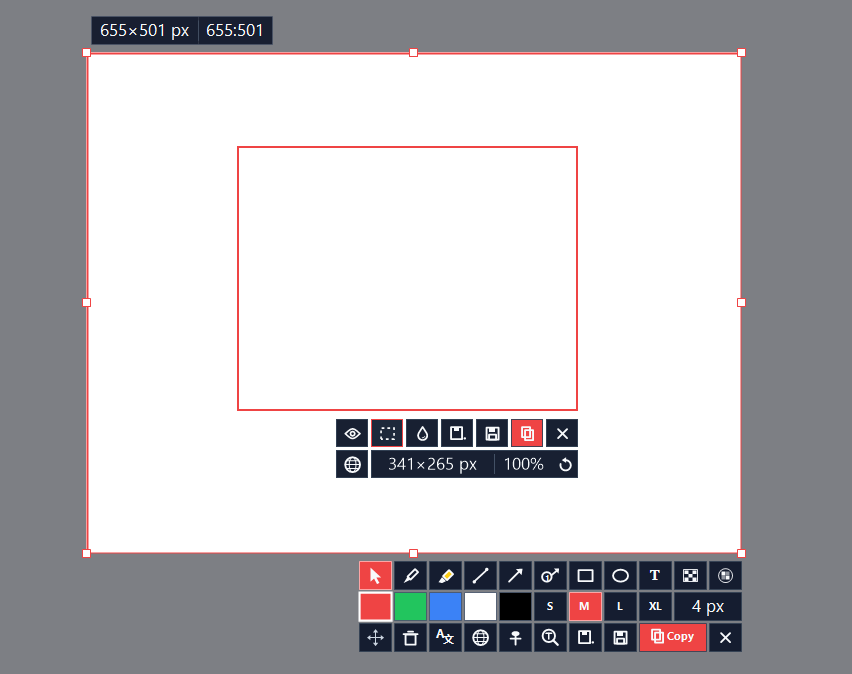
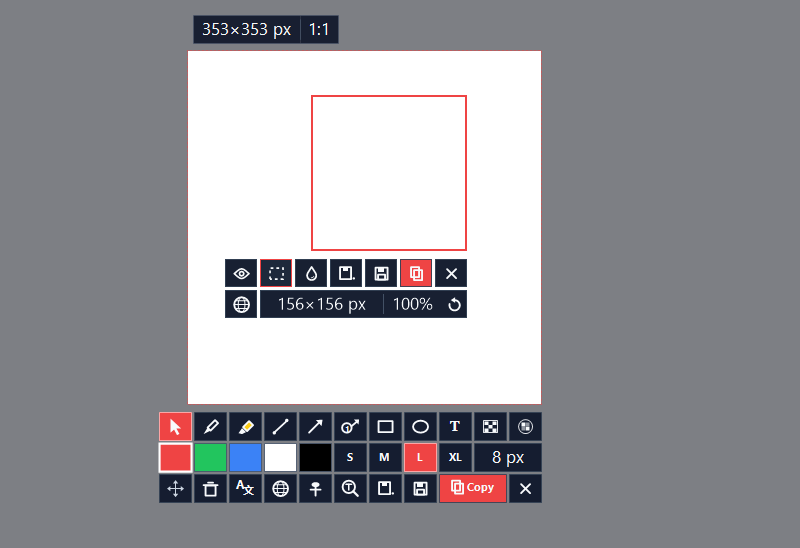
Overlay: a frame outside the capture, and an edge you can grab anywhere
The dashed selection frame sat on the border of the area it marked, and because
GDI+ paints a DrawRectangle(x, y, w, h) outline along x .. x + w while the code
passed the capture width, the left and top edges landed on the first captured row
and column. The outermost pixels of a save were the ones hidden under the dashes.
The frame now starts a pixel up and left with the width a pixel larger, so every
edge is beyond the last captured pixel. Ellipses grow the same way, and a
deformed quad pushes each corner a pixel away from its centre. The crop, the W×H
pill and the masks are untouched: only where the line is painted moved.

Resizing used to need the invisible midpoint of a side, which was a guess now that
the points are not drawn. HitTestSelectionHandles measures the distance to the
real edge segment instead, so the whole side resizes and the resize arrow follows
it. Corners are still tested first, and the band belongs to the Select tool so a
drawing tool can still draw up to the frame. An ellipse keeps its eight points:
its handles sit on the bounding box, away from the shape, so a hidden point there
is a detached one rather than an invisible affordance.

The aim crosshair and the frame now take their width, colour and dash from
ConfigureGuidePen, so the two cannot drift apart. The README's editor screenshot
is replaced with one showing the current editor.

diff --git a/Overlay.cpp b/Overlay.cpp
@@ -2851,15 +2851,35 @@ DragMode PepperSnapDaemon::HitTestSelectionHandles(int mx, int my) const {
         return std::abs(mx - p.x) <= r && std::abs(my - p.y) <= r;
     };
 
-    // Prioritize corner handles first, then edge midpoint handles
+    // Corners first, so a press in the overlap band at a corner still pulls that corner.
     if (nearPt(handles[0])) return DragMode::ResizeTL;
     if (nearPt(handles[2])) return DragMode::ResizeTR;
     if (nearPt(handles[4])) return DragMode::ResizeBR;
     if (nearPt(handles[6])) return DragMode::ResizeBL;
-    if (nearPt(handles[1])) return DragMode::ResizeT;
-    if (nearPt(handles[3])) return DragMode::ResizeR;
-    if (nearPt(handles[5])) return DragMode::ResizeB;
-    if (nearPt(handles[7])) return DragMode::ResizeL;
+
+    // The band belongs to the select tool. A drawing tool keeps the whole area drawable right
+    // up to the frame, and Ctrl - the temporary select tool - brings the band back with it.
+    if (GetEffectiveTool() != OverlayTool::SelectMove) return DragMode::None;
+
+    // A side is grabbable along its whole length, not only around its midpoint. The points
+    // are not drawn (except on an ellipse), so which pixel was "the middle" was a guess; the
+    // distance to the edge itself is not. Deformed quads are covered too, because this is the
+    // distance to the real segment rather than to an axis-aligned band.
+    POINT q[4];
+    GetSelectionQuadPoints(q);
+    auto nearEdge = [&](POINT a, POINT b) {
+        double abx = (double)(b.x - a.x), aby = (double)(b.y - a.y);
+        double apx = (double)(mx - a.x), apy = (double)(my - a.y);
+        double len2 = abx * abx + aby * aby;
+        double t = (len2 > 0.0) ? ((apx * abx + apy * aby) / len2) : 0.0;
+        t = std::max(0.0, std::min(1.0, t));
+        double dx = apx - t * abx, dy = apy - t * aby;
+        return std::sqrt(dx * dx + dy * dy) <= (double)r;
+    };
+    if (nearEdge(q[0], q[1])) return DragMode::ResizeT;
+    if (nearEdge(q[1], q[2])) return DragMode::ResizeR;
+    if (nearEdge(q[2], q[3])) return DragMode::ResizeB;
+    if (nearEdge(q[3], q[0])) return DragMode::ResizeL;
     return DragMode::None;
 }
 
@@ -3186,6 +3206,16 @@ void PepperSnapDaemon::ActionSaveAsAndClose() {
 // Overlay Window Rendering & Procedure (With Live Pixelation & Live Text Box)
 // ----------------------------------------------------------------------------
 
+// The aim crosshair and the selected-area frame are the same guide at two stages of one
+// gesture: a 1 px pen, 3 px of dash and a 1 px gap, the same red at 150 alpha (GDI+ measures
+// DashStyleDash as 3-1 on a width-1 pen). Both take that look from here, so they cannot drift
+// apart and a change to one is a change to the other.
+static void ConfigureGuidePen(Pen& pen) {
+    pen.SetWidth(1.0f);
+    pen.SetColor(Color(150, 239, 68, 68));
+    pen.SetDashStyle(DashStyleDash);
+}
+
 static void RenderOverlayWindow(HWND, HDC hdc) {
     int W = g_Daemon.vScreenW;
     int H = g_Daemon.vScreenH;
@@ -3432,66 +3462,74 @@ static void RenderOverlayWindow(HWND, HDC hdc) {
                 PepperSnapDaemon::DrawVectorAnnotation(g, g_Daemon.editingTextAnn, 0, 0, true, true);
             }
 
-            // Selection Frame + 8 Resize Handles (Supports circles/ellipses, rectangles, irregular quadrilaterals, and snapped triangles)
-            Pen selBorder(Color(255, 239, 68, 68), 1.8f);
+            // Selection frame. The whole outline is drawn one pixel outside the capture, because
+            // a capture is the pixels inside the area: GDI+ paints a DrawRectangle(x, y, w, h)
+            // border along x .. x + w, so starting one pixel up and left and keeping the width
+            // one pixel larger puts every edge beyond the last captured row and column. Before
+            // this, the left and top edges sat on the first captured row and column, so the
+            // outermost pixels of the save were the ones hidden under the dashes.
+            Pen selBorder(Color(150, 239, 68, 68), 1.0f);
+            ConfigureGuidePen(selBorder);
+            int frameL = std::max(0, sx - 1);
+            int frameT = std::max(0, sy - 1);
+            int frameW = std::max(1, (sx + sw) - frameL);
+            int frameH = std::max(1, (sy + sh) - frameT);
             if (g_Daemon.hasEllipseSelection) {
-                int drawX = std::max(0, sx);
-                int drawY = std::max(0, sy);
-                int drawR = std::min(W - 1, sx + sw);
-                int drawB = std::min(H - 1, sy + sh);
-                g.DrawEllipse(&selBorder, drawX, drawY, std::max(1, drawR - drawX), std::max(1, drawB - drawY));
+                g.DrawEllipse(&selBorder, frameL, frameT, frameW, frameH);
             } else if (g_Daemon.hasCustomQuad) {
                 selBorder.SetLineJoin(LineJoinRound);
                 POINT polyPtsDraw[4];
                 int polyCountDraw = g_Daemon.GetSelectionPolygonPoints(polyPtsDraw);
                 if (polyCountDraw >= 3) {
+                    // A deformed area has no axis-aligned edges to step outwards along, so each
+                    // corner is pushed 1 px away from the shape's centre instead. That leaves a
+                    // 1 px stroke sitting outside the quad rather than across its border.
+                    double cx = 0.0, cy = 0.0;
+                    for (int i = 0; i < polyCountDraw; ++i) {
+                        cx += polyPtsDraw[i].x;
+                        cy += polyPtsDraw[i].y;
+                    }
+                    cx /= polyCountDraw;
+                    cy /= polyCountDraw;
                     PointF borderPts[4];
                     for (int i = 0; i < polyCountDraw; ++i) {
+                        double vx = (double)polyPtsDraw[i].x - cx;
+                        double vy = (double)polyPtsDraw[i].y - cy;
+                        double len = std::sqrt(vx * vx + vy * vy);
+                        double grow = (len > 0.5) ? (1.0 + 1.0 / len) : 1.0;
                         borderPts[i] = PointF(
-                            (REAL)std::max(0, std::min(W - 1, (int)polyPtsDraw[i].x)),
-                            (REAL)std::max(0, std::min(H - 1, (int)polyPtsDraw[i].y))
+                            (REAL)std::max(0.0, std::min((double)(W - 1), cx + vx * grow)),
+                            (REAL)std::max(0.0, std::min((double)(H - 1), cy + vy * grow))
                         );
                     }
                     g.DrawPolygon(&selBorder, borderPts, polyCountDraw);
                 }
             } else {
-                selBorder.SetAlignment(PenAlignmentInset);
-                int drawX = std::max(0, sx);
-                int drawY = std::max(0, sy);
-                int drawR = std::min(W - 1, sx + sw);
-                int drawB = std::min(H - 1, sy + sh);
-                g.DrawRectangle(&selBorder, drawX, drawY, std::max(1, drawR - drawX), std::max(1, drawB - drawY));
+                g.DrawRectangle(&selBorder, frameL, frameT, frameW, frameH);
             }
 
-            POINT handles[8];
-            g_Daemon.GetSelectionHandlePoints(handles);
-            SolidBrush handleFill(Color(255, 255, 255, 255));
-            SolidBrush snappedCornerFill(Color(255, 254, 240, 138));
-            Pen handleOutline(Color(255, 239, 68, 68), 1.5f);
-            for (int hi = 0; hi < 8; ++hi) {
-                const auto& pt = handles[hi];
-                bool alreadyDrawn = false;
-                for (int prev = 0; prev < hi; ++prev) {
-                    if (handles[prev].x == pt.x && handles[prev].y == pt.y) {
-                        alreadyDrawn = true;
-                        break;
-                    }
-                }
-                if (alreadyDrawn) continue;
-                bool isStackedCorner = false;
-                if ((hi % 2) == 0 && g_Daemon.hasCustomQuad) {
-                    int cIdx = hi / 2;
-                    for (int other = 0; other < 4; ++other) {
-                        if (other != cIdx &&
-                            g_Daemon.selQuad[other].x == pt.x &&
-                            g_Daemon.selQuad[other].y == pt.y) {
-                            isStackedCorner = true;
+            // Resize points are drawn for an ellipse only. On a rectangle or a quad the frame is
+            // itself under the cursor: a press anywhere along an edge resizes, and the arrow
+            // cursor says so. On an ellipse the handles sit on the bounding box, away from the
+            // shape, so without the squares their positions are not visible at all.
+            if (g_Daemon.hasEllipseSelection) {
+                POINT ellHandles[8];
+                g_Daemon.GetSelectionHandlePoints(ellHandles);
+                SolidBrush handleFill(Color(255, 255, 255, 255));
+                Pen handleOutline(Color(255, 239, 68, 68), 1.5f);
+                for (int hi = 0; hi < 8; ++hi) {
+                    const POINT& hpt = ellHandles[hi];
+                    bool alreadyDrawn = false;
+                    for (int prev = 0; prev < hi; ++prev) {
+                        if (ellHandles[prev].x == hpt.x && ellHandles[prev].y == hpt.y) {
+                            alreadyDrawn = true;
                             break;
                         }
                     }
+                    if (alreadyDrawn) continue;
+                    g.FillRectangle(&handleFill, hpt.x - 4, hpt.y - 4, 8, 8);
+                    g.DrawRectangle(&handleOutline, hpt.x - 4, hpt.y - 4, 8, 8);
                 }
-                g.FillRectangle((isStackedCorner && g_Daemon.isDraggingSingleCorner) ? &snappedCornerFill : &handleFill, pt.x - 4, pt.y - 4, 8, 8);
-                g.DrawRectangle(&handleOutline, pt.x - 4, pt.y - 4, 8, 8);
             }
 
             // Dynamic Typeable Dimension & Permanent Ratio Pill [ W×H px | ratio | trash icon ] — anchored to the stationary corner when resizing!
@@ -3762,7 +3800,7 @@ static void RenderOverlayWindow(HWND, HDC hdc) {
             }
         } else {
             Pen crossPen(Color(150, 239, 68, 68), 1.0f);
-            crossPen.SetDashStyle(DashStyleDash);
+            ConfigureGuidePen(crossPen);
             bool shiftHeldCross = (g_Daemon.dragMode == DragMode::None || g_Daemon.pendingShiftColorPick) &&
                                   !PepperSnapDaemon::IsAltModifierHeld() &&
                                   (((GetAsyncKeyState(VK_SHIFT) & 0x8000) != 0) ||

diff --git a/Pinned.cpp b/Pinned.cpp
@@ -4419,7 +4419,7 @@ void PepperSnapDaemon::ShowShortcutsModal() {
     addRow(L"2 + Left-click",                L"Constrain selection or resize to 9:16 ratio (releasing 2 returns to free ratio; magnifier sticks to the opposite point of the current anchor point)");
     addRow(L"3 + Left-click",                L"Constrain selection or resize to 1:2 ratio (releasing 3 returns to free ratio; magnifier sticks to the opposite point of the current anchor point)");
     addRow(L"4 + Left-click",                L"Constrain selection or resize to 2:1 ratio (releasing 4 returns to free ratio; magnifier sticks to the opposite point of the current anchor point)");
-    addRow(L"Drag 8 resize handles",         L"Resize existing custom area (rectangle, irregular quad / triangle bounding box, or circle / ellipse) with a 1:1 square magnification window at the active resize point showing \"Press arrow keys to jump pixel-by-pixel while holding left-click\"");
+    addRow(L"Drag an edge or corner of the selection", L"Resize existing custom area (rectangle, irregular quad / triangle bounding box, or circle / ellipse) - with the Select tool the whole edge resizes, not just its middle. On a rectangle or quad the resize points are not drawn: the cursor turns into a resize arrow along the edge, and a 1:1 square magnification window follows the active edge or corner showing \"Press arrow keys to jump pixel-by-pixel while holding left-click\". A circle / ellipse keeps its eight white points, because its handles sit on the bounding box rather than on the shape. With a drawing tool active the edge band is off, so a stroke can start right at the frame - hold Ctrl to resize instead");
     addRow(L"Drawing outside the custom area", L"Only the Select tool starts a new custom area from a drag outside the current one. With any drawing tool the drag draws where it lands, including outside the area - those strokes stay visible in the editor but are cropped out of the save unless the area covers them. Ctrl still behaves as the temporary Select tool, so Ctrl + drag outside makes a new area");
     addRow(L"Annotations are not tied to the area", L"Changing the custom area keeps every annotation: a new area is a new crop of the same screen, not a new document. Strokes that fall outside the new area stay visible in the editor and are simply cropped out of the save, and the Clear button is the explicit way to remove them. Ctrl + Z brings the previous area back");
     addRow(L"Click an annotation that runs past the area edge", L"The editor draws annotations unclipped, so anything overflowing the area stays visible and clickable. In Select mode, clicking that overflow selects the annotation instead of starting a new area; Shift + click adds it to a multi-selection, and Ctrl + click on empty space still picks a window");

diff --git a/PepperSnapInternal.h b/PepperSnapInternal.h
@@ -26,7 +26,7 @@ public:
     std::wstring pendingEditFile;
     std::wstring pendingSearchFile;
 
-    static constexpr const wchar_t* APP_VERSION = L"4.41";
+    static constexpr const wchar_t* APP_VERSION = L"4.47";
     static constexpr const wchar_t* DEFAULT_GITHUB_REPO = L"finnuen/PepperSnap";
 
     // Configuration (Desktop default, PNG default for custom area & copy, JPEG for fullscreen, unified Options modal)

diff --git a/AGENTS.md b/AGENTS.md
@@ -233,6 +233,54 @@ unclipped editor already shows it, which is what makes the arrangement legible.
 Mosaic is safe to leave outside: `ApplyPixelateFilterRawBuffer` clamps its rect to
 the bitmap and no-ops when the intersection is empty.
 
+### The selection frame is a dashed guide drawn outside the capture
+
+The selected area is outlined with the same 1 px dashed pen the aiming crosshair
+uses — `Color(150, 239, 68, 68)`, `DashStyleDash`, which GDI+ measures as 3 px of
+dash and a 1 px gap. Both pens come from `ConfigureGuidePen`, so the aim line and
+the frame cannot drift apart; they are the same guide at two stages of one
+gesture.
+
+The outline is drawn **one pixel outside** the capture, not on its edge. A capture
+is the pixels *inside* the area, so an outline drawn on the border hides part of
+what is being saved: `DrawRectangle(x, y, w, h)` paints along `x .. x + w`, and
+the old code passed the capture width, which put the left and top edges on the
+first captured row and column. The frame now starts at `sx - 1` / `sy - 1` with
+the width one larger, so every edge lands beyond the last captured pixel. An
+ellipse grows the same way, and a deformed quad pushes each corner 1 px away from
+its centre. The crop arithmetic, the W×H pill and the masks are untouched by
+this — only where the line is painted.
+
+Two consequences worth knowing:
+
+- The outline now sits on the dimmed backdrop just outside the brightened area,
+  not over the bright pixels, which is the point.
+- At the very edge of the screen there is no pixel outside the capture, so
+  `frameL` / `frameT` clamp to 0 and that one edge still covers the first
+  captured row or column. Nothing else can be drawn there.
+
+### Resize points: ellipse only, and a whole side resizes
+
+The eight white squares are **not** drawn on a rectangle or a deformed quad. The
+frame itself is the affordance: `HitTestSelectionHandles` returns the resize mode
+for a press within 7 px of an edge, anywhere along it — not merely around the
+invisible midpoint — and `UpdateOverlayCursor` uses the same function to show a
+resize arrow. Corners are tested first, so a press in the overlap at a corner
+still pulls that corner. The test is distance to the real segment, so a deformed
+quad's slanted sides work the same as an axis-aligned rectangle's. That band only
+exists while the effective tool is `SelectMove`, so a drawing tool can still draw
+up to the frame; Ctrl, being the temporary select tool, brings the band back with
+it.
+
+An ellipse **does** draw all eight points. Its handles live on the bounding box,
+away from the curve, so a hidden point there is not an invisible affordance but a
+detached one. Do not "restore" the squares on rectangles without asking, and do
+not remove them from ellipses.
+
+One thing went with the rectangle points: the pale-yellow fill that used to mark a
+corner snapped onto another corner during a Ctrl + corner pull. The snap still
+happens; only that highlight is gone.
+
 ### Only the select tool starts a new custom area
 
 `WM_LBUTTONDOWN` used to send any press outside the selected area into the

diff --git a/README.md b/README.md
@@ -65,7 +65,7 @@ Every shortcut can be changed in **Options → Customize keys**.
 - Full **undo / redo**, including the capture area itself — **Ctrl + Z** after an accidental new area puts the previous one back.
 - **Nothing is lost when the area changes.** Annotations stay put; anything outside the new area is cropped from the save while still visible in the editor.
 
-![The annotation editor: selection handles, live pixel dimensions, and the drawing toolbar](assets/editor.png)
+![The annotation editor: a dashed selection frame, live pixel dimensions, and the drawing toolbar](assets/editor.png)
 
 ### 📌 Pin screenshots on top
 - Pin any capture as a floating, always-on-top window. Handy for references, designs, notes or chat snippets.
